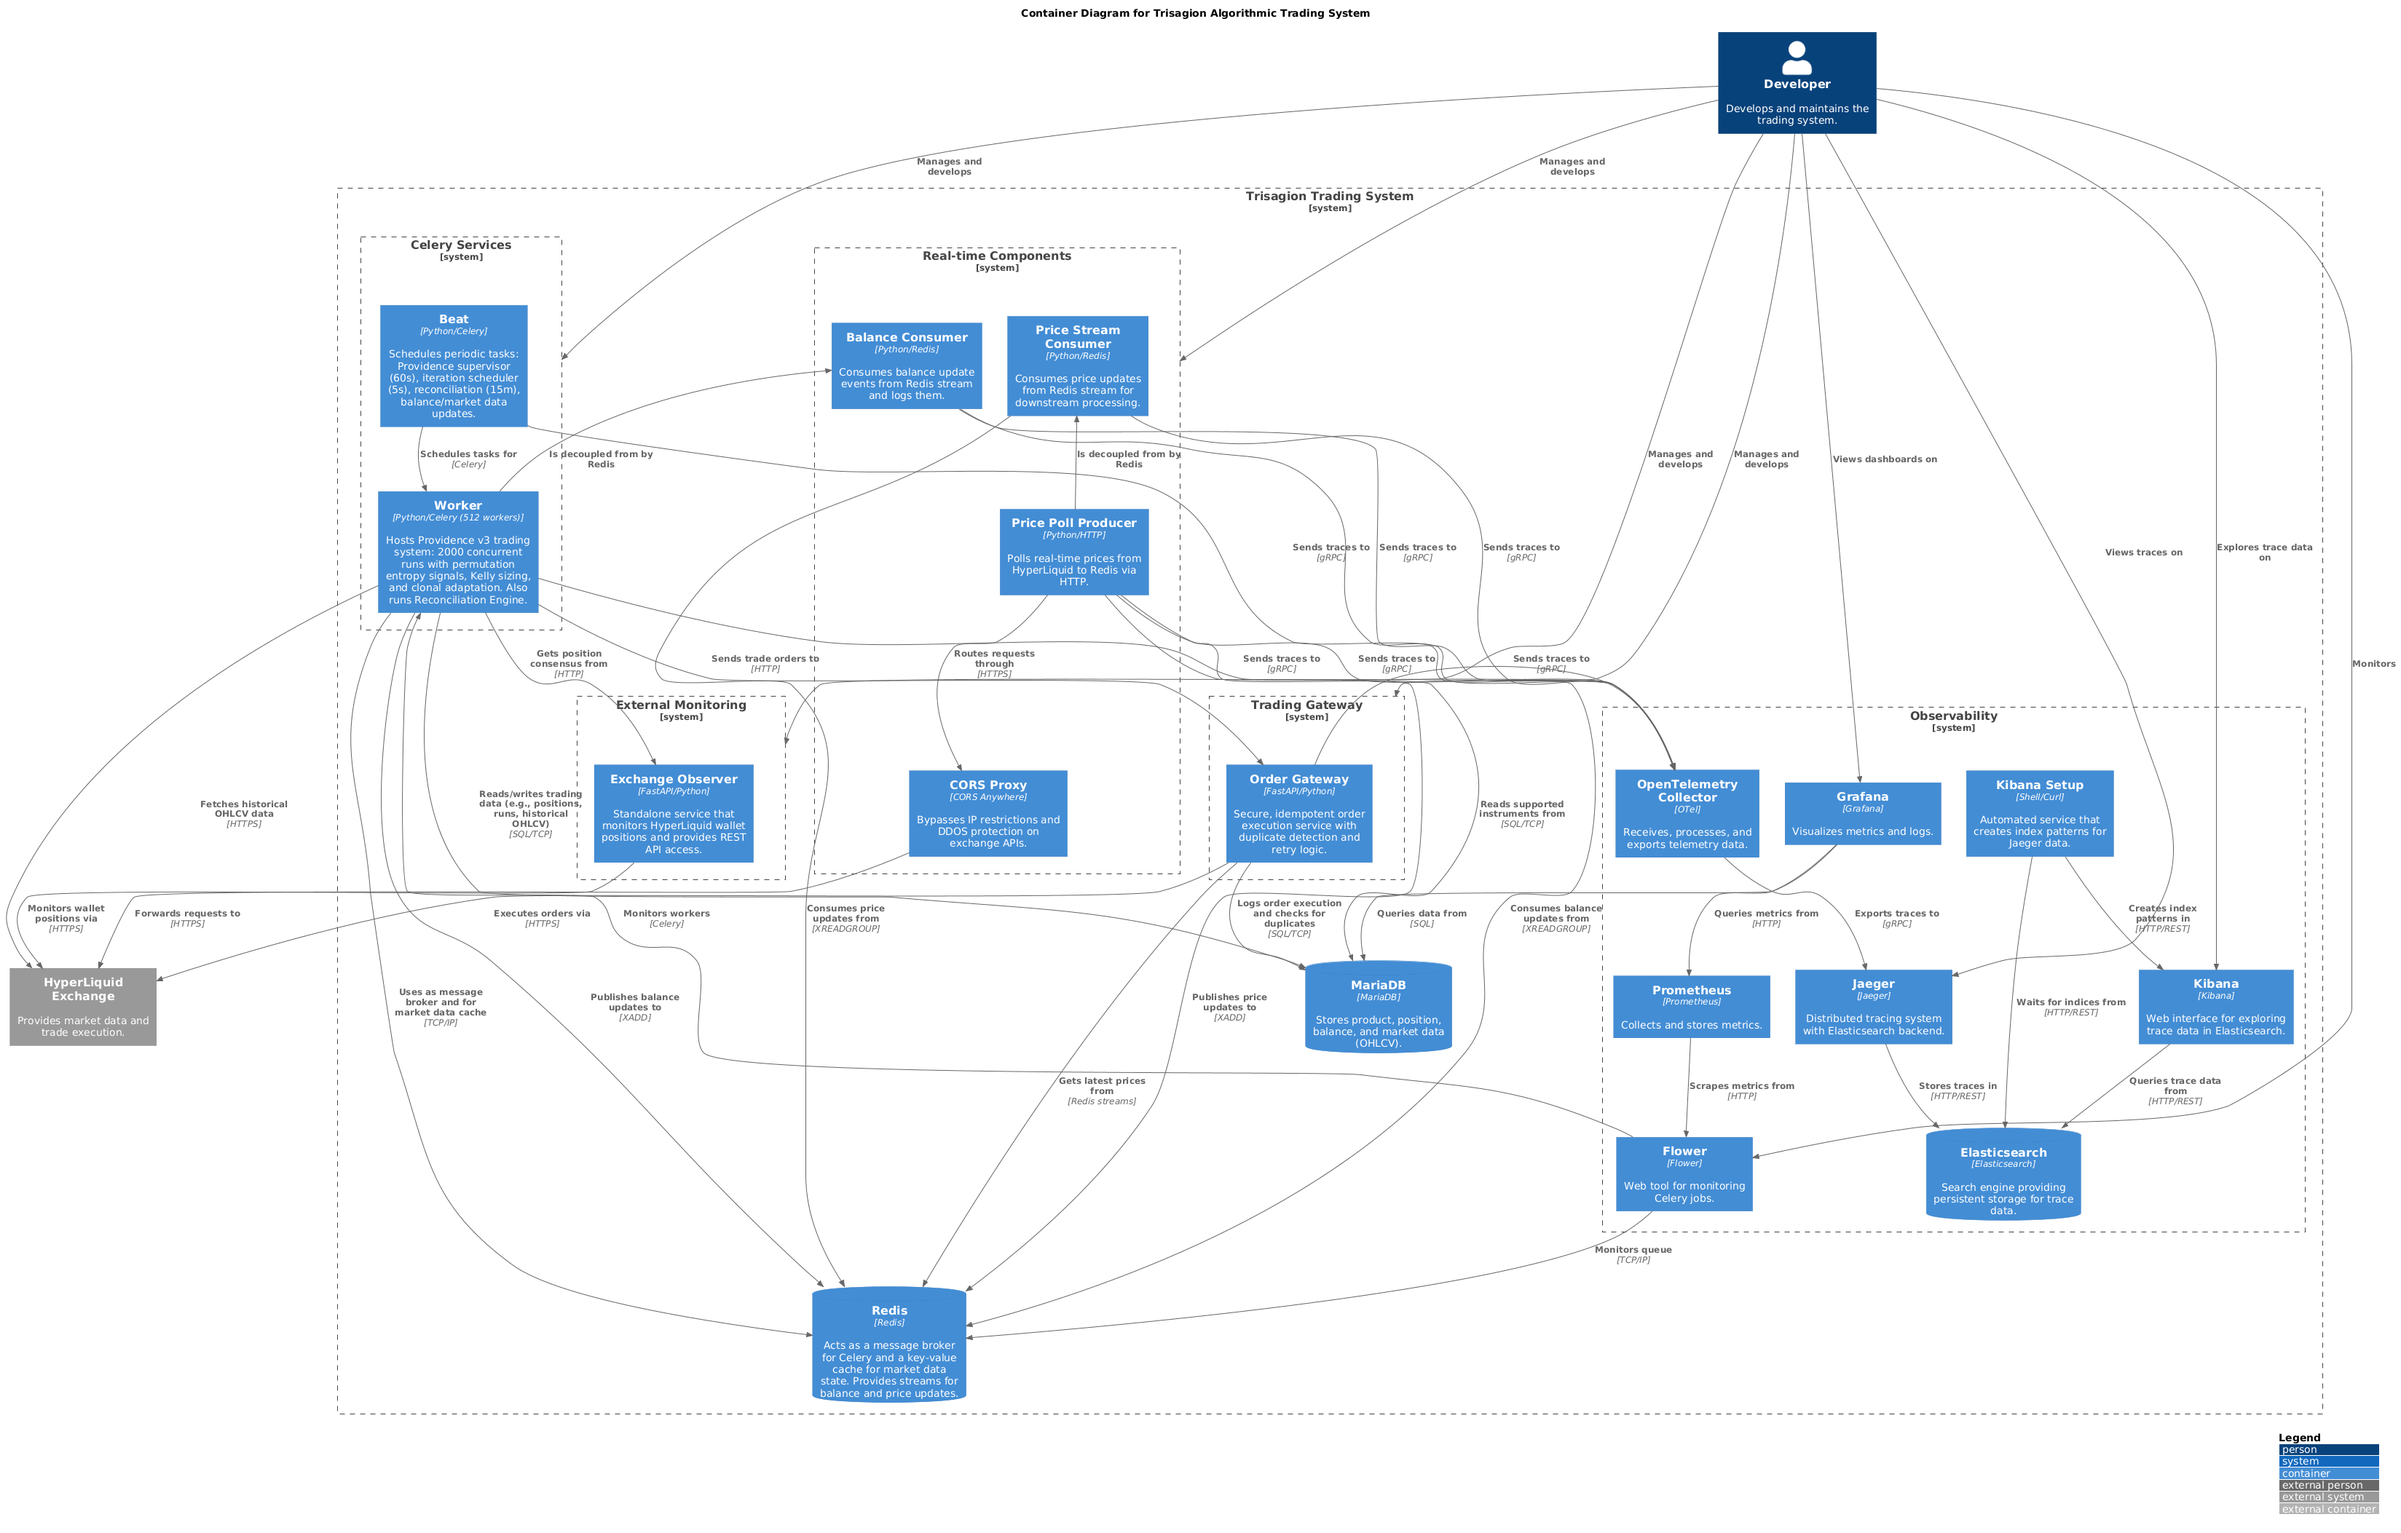
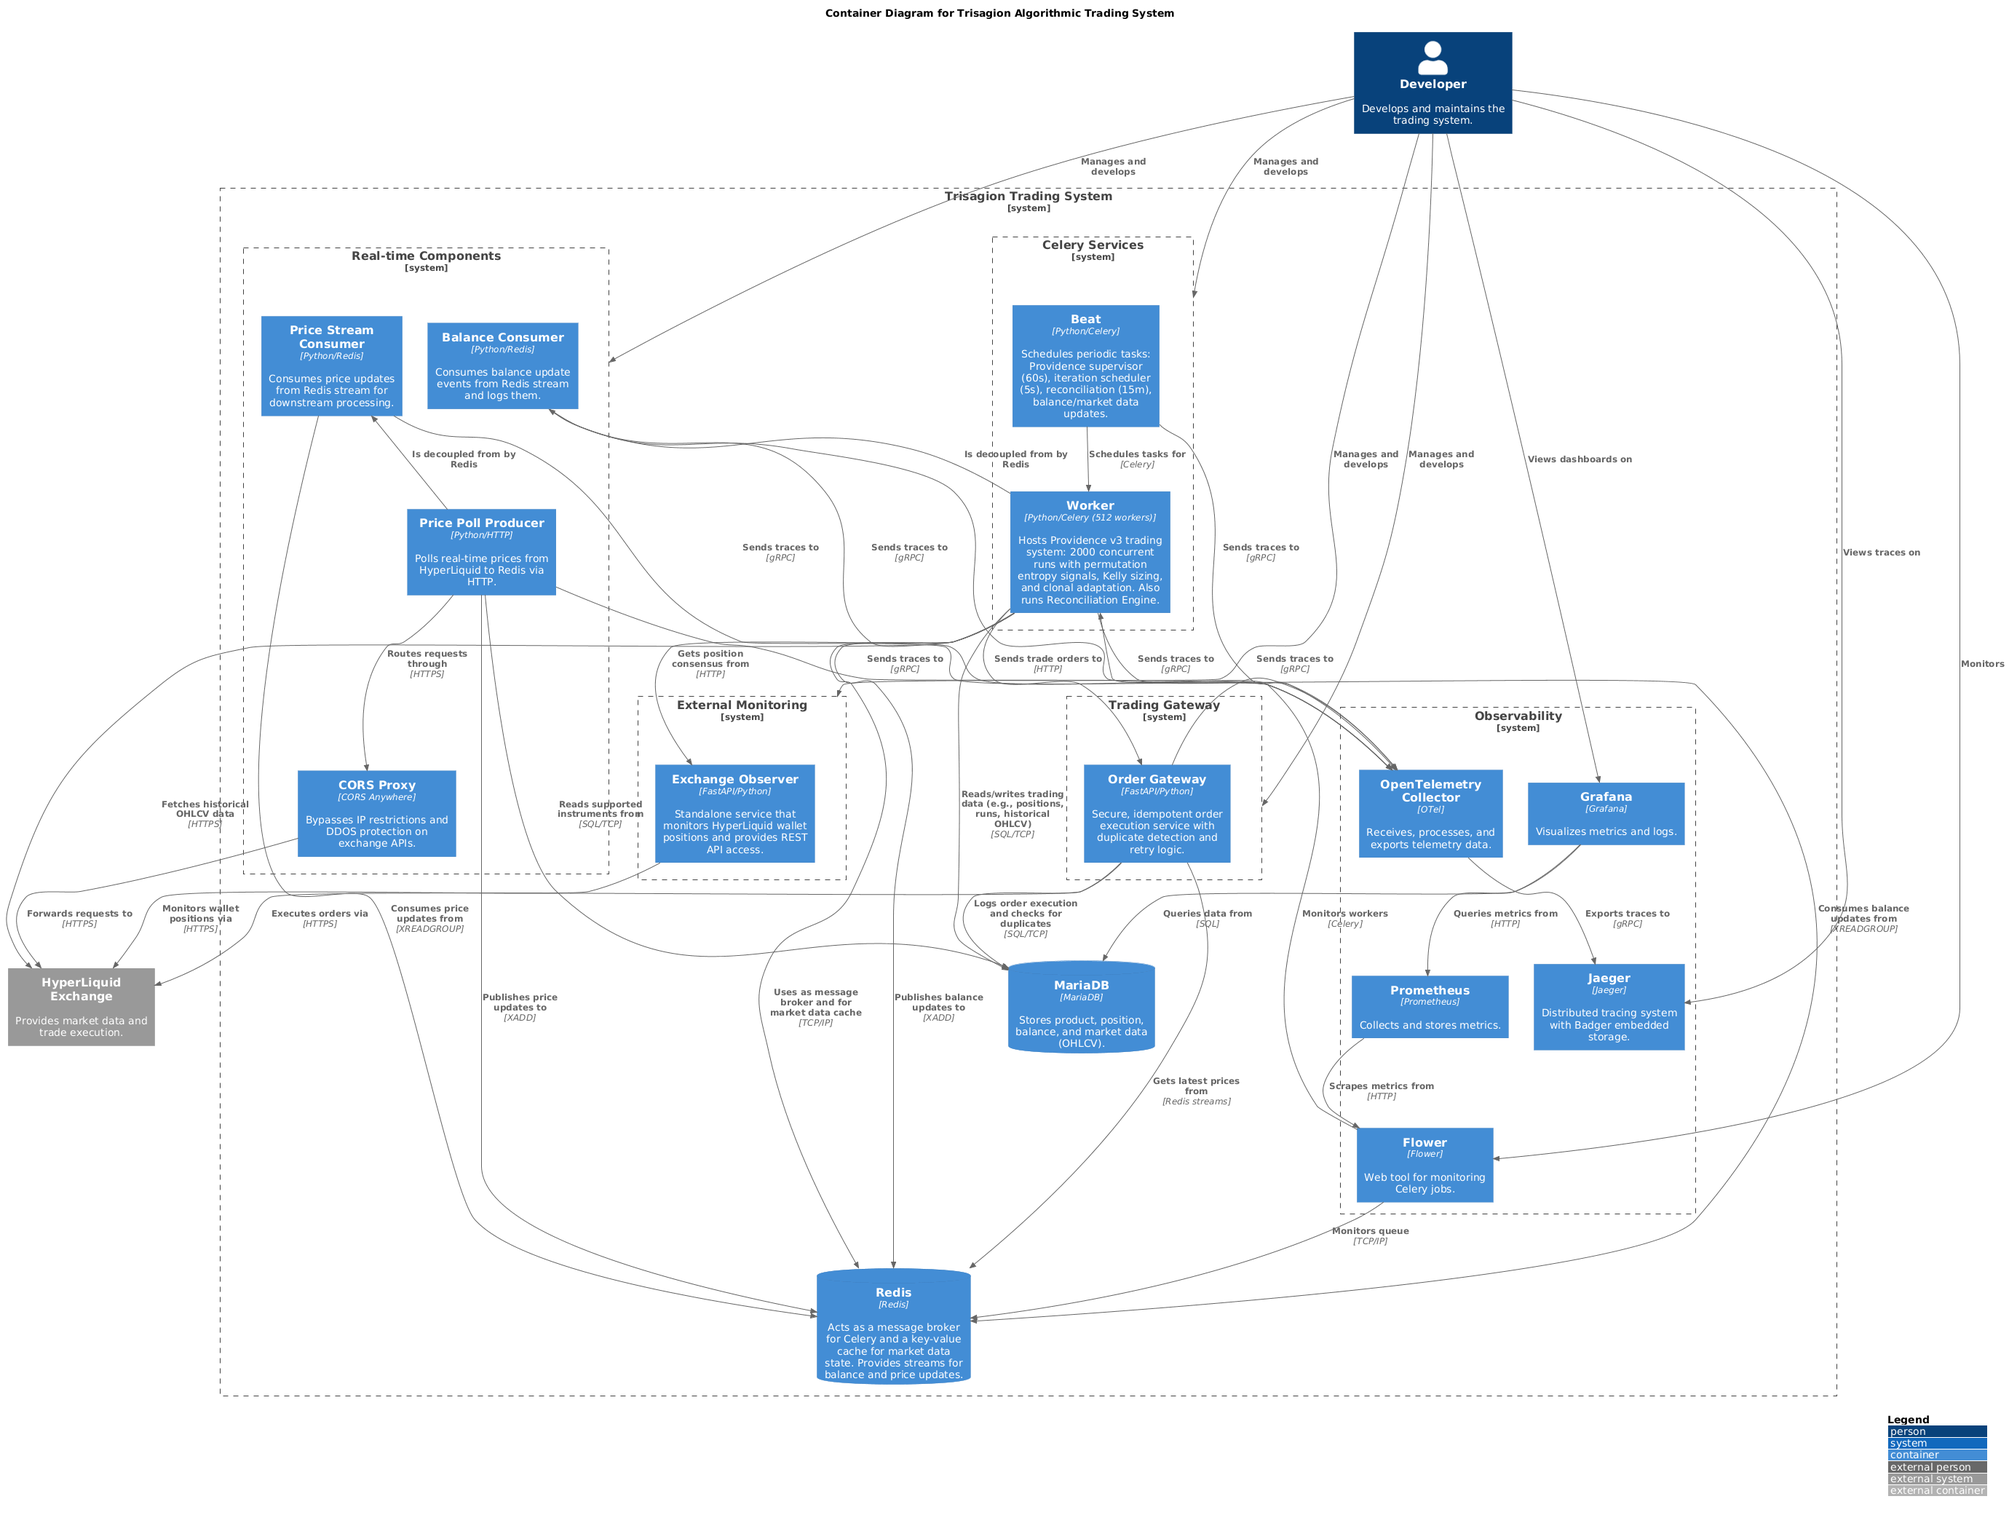
removed elasticsearch and kibana

diff --git a/mission-control/assets/main.js b/mission-control/assets/main.js
@@ -6,7 +6,7 @@ document.addEventListener('DOMContentLoaded', function() {
 });
 
 const WEB_SERVICES = [
-    'mission-control', 'grafana', 'flower', 'prometheus', 'kibana', 
+    'mission-control', 'grafana', 'flower', 'prometheus',
     'jaeger', 'exchange-observer', 'order-gateway'
 ];
 
@@ -18,8 +18,6 @@ const ICON_MAP = {
     'mission-control': 'nginx',
     'cors-proxy': 'nginx',
     'node-exporter': 'prometheus',
-    'elasticsearch': 'elasticsearch',
-    'kibana': 'kibana',
     'redis': 'redis',
     'jaeger': 'jaeger',
     'grafana': 'grafana',
@@ -32,8 +30,7 @@ const ICON_MAP = {
     'price_stream_consumer': 'default',
     'health-monitor': 'default',
     'order-gateway': 'default',
-    'exchange-observer': 'default',
-    'kibana-setup': 'default'
+    'exchange-observer': 'default'
 };
 
 async function loadAndRenderConfig() {

diff --git a/README.md b/README.md
@@ -75,9 +75,7 @@ The core of the system is **Providence v3**, a Celery-based distributed trading 
 - **MariaDB**: Persistent storage for trading data, positions, and run state (runs.run_state JSON)
 
 ### Observability & Monitoring Stack
-- **Elasticsearch**: Search and analytics engine providing persistent storage for trace data.
-- **Jaeger**: Distributed tracing system with Elasticsearch backend for monitoring microservices interactions.
-- **Kibana**: Web interface for exploring and visualizing trace data stored in Elasticsearch.
+- **Jaeger**: Distributed tracing system with Badger embedded storage (lightweight, disk-based).
 - **OpenTelemetry Collector**: Receives, processes, and exports telemetry data from services to Jaeger.
 - **Prometheus**: Monitoring and alerting toolkit that collects metrics from various services.
 - **Grafana**: Platform for visualizing metrics with pre-built dashboards for monitoring the 3T system.
@@ -144,7 +142,7 @@ Note: Your system must have docker and docker-compose available. The docker serv
    docker compose up -d --build
    ```
 
-   This will start all services in detached mode and automatically configure Kibana with Jaeger index patterns.
+   This will start all services in detached mode.
 
 4. **Initialize the database:**
 
@@ -158,10 +156,8 @@ Note: Your system must have docker and docker-compose available. The docker serv
 
    - **Grafana**: http://localhost:3000/dashboards
    - **Jaeger**: http://localhost:16686 (distributed tracing UI)
-   - **Kibana**: http://localhost:5601 (trace data exploration)
    - **Flower**: http://localhost:5555 (Celery monitoring)
    - **Prometheus**: http://localhost:9090 (metrics)
-   - **Elasticsearch**: http://localhost:9200 (API access)
 
 # Documentation
 
@@ -192,14 +188,12 @@ For development commands, testing procedures, and detailed technical guidance, s
 The 3T system is designed for high observability, with a comprehensive suite of tools for monitoring, tracing, and debugging.
 
 - **Metrics**: Prometheus scrapes metrics from Flower and other services, visualized in Grafana dashboards.
-- **Distributed Tracing**: All services instrumented with OpenTelemetry, sending traces through OTEL Collector to Jaeger with persistent Elasticsearch storage.
-- **Trace Exploration**: Kibana provides a web interface for exploring trace data with automatically configured index patterns.
+- **Distributed Tracing**: All services instrumented with OpenTelemetry, sending traces through OTEL Collector to Jaeger with Badger embedded storage.
 - **Intelligent Sampling**: Configurable sampling (default 1% for high-volume tasks) reduces noise while preserving critical traces
   - High-volume tasks (providence iterations): sampled at configured rate
   - Critical tasks (supervisor, reconciliation): always 100% traced
   - Log sampling mirrors trace sampling for consistent observability
 - **Real-time Monitoring**: Live trace data with auto-refresh capabilities to monitor system activity.
-- **Automated Setup**: Kibana index patterns automatically created during deployment for immediate use.
 
 ## Quick Reference
 
@@ -208,7 +202,6 @@ The 3T system is designed for high observability, with a comprehensive suite of 
 |---------|-----|---------|
 | Grafana | http://localhost:3000/dashboards | Metrics visualization |
 | Jaeger | http://localhost:16686 | Distributed tracing UI |
-| Kibana | http://localhost:5601 | Trace data exploration |
 | Flower | http://localhost:5555 | Celery monitoring |
 | Prometheus | http://localhost:9090 | Metrics storage |
 | Order Gateway | http://localhost:8002 | Trade execution API |

diff --git a/CLAUDE.md b/CLAUDE.md
@@ -29,9 +29,8 @@ This file provides guidance to Claude Code (claude.ai/code) when working with co
 **IMPORTANT**: Python bytecode caching means `docker-compose restart` will NOT pick up code changes. Always use `make install` after modifying .py files.
 
 ### Automated Setup
-- **Kibana Index Patterns**: Automatically created by `kibana-setup` service on deployment
 - **Setup Scripts**: Located in `setup/` directory for automated configuration
-- **Fresh Environment**: All necessary index patterns and configurations are created automatically
+- **Fresh Environment**: All necessary configurations are created automatically
 
 ### Database Operations
 - Complete database reset (development only):
@@ -71,9 +70,8 @@ This file provides guidance to Claude Code (claude.ai/code) when working with co
 ### Infrastructure Services
 - **Redis**: Message broker for Celery and streams for real-time events
 - **MariaDB**: Persistent storage for trading data, positions, and balance history
-- **Prometheus + Grafana**: Metrics collection and visualization  
-- **Elasticsearch + Jaeger + OTEL Collector**: Distributed tracing with persistent storage
-- **Kibana**: Web interface for browsing Elasticsearch/Jaeger trace data
+- **Prometheus + Grafana**: Metrics collection and visualization
+- **Jaeger + OTEL Collector**: Distributed tracing with Badger embedded storage (disk-based)
 - **Flower**: Celery monitoring dashboard
 
 ### Configuration Management
@@ -178,10 +176,8 @@ This file provides guidance to Claude Code (claude.ai/code) when working with co
 ## Service Access
 - Grafana dashboards: http://localhost:3000/dashboards
 - Jaeger tracing: http://localhost:16686
-- Kibana (Elasticsearch/Jaeger data): http://localhost:5601
 - Flower Celery monitoring: http://localhost:5555
 - Prometheus metrics: http://localhost:9090
-- Elasticsearch API: http://localhost:9200
 
 ## Task Scheduling & Providence System
 - Celery Beat runs on configurable intervals for all scheduled tasks
@@ -308,7 +304,7 @@ See `config.yml` for Reconciliation Engine configuration options including:
 - **Jaeger Traces**: If supervisor wait time >1 minute, queue starvation may be occurring
 
 ### Observability Sampling
-- **Problem**: High-volume iteration tasks can flood Jaeger/Elasticsearch with traces
+- **Problem**: High-volume iteration tasks can flood Jaeger with traces
 - **Solution**: Configurable sampling rate reduces noise while preserving critical task traces
 - **Configuration**: Set `observability.sampling_rate` in `config.yml` to control sampling (0.01 = 1%, 1.0 = 100%)
 - **Effect**: Iteration task logs/traces sampled at configured rate, supervisor/reconciliation always 100%

diff --git a/RUNBOOK.md b/RUNBOOK.md
@@ -3,7 +3,9 @@
 ## 3T Trading Infrastructure
 
 ```
-curl -X DELETE "http://localhost:9200/jaeger-*"
+# Purge Jaeger trace data (Badger backend):
+# docker volume rm 3t_jaeger_data  (requires stopping jaeger first)
+# Or set BADGER_SPAN_STORE_TTL env var for automatic TTL-based cleanup
 
 cd /opt/3T
 docker compose exec mariadb /bin/bash
